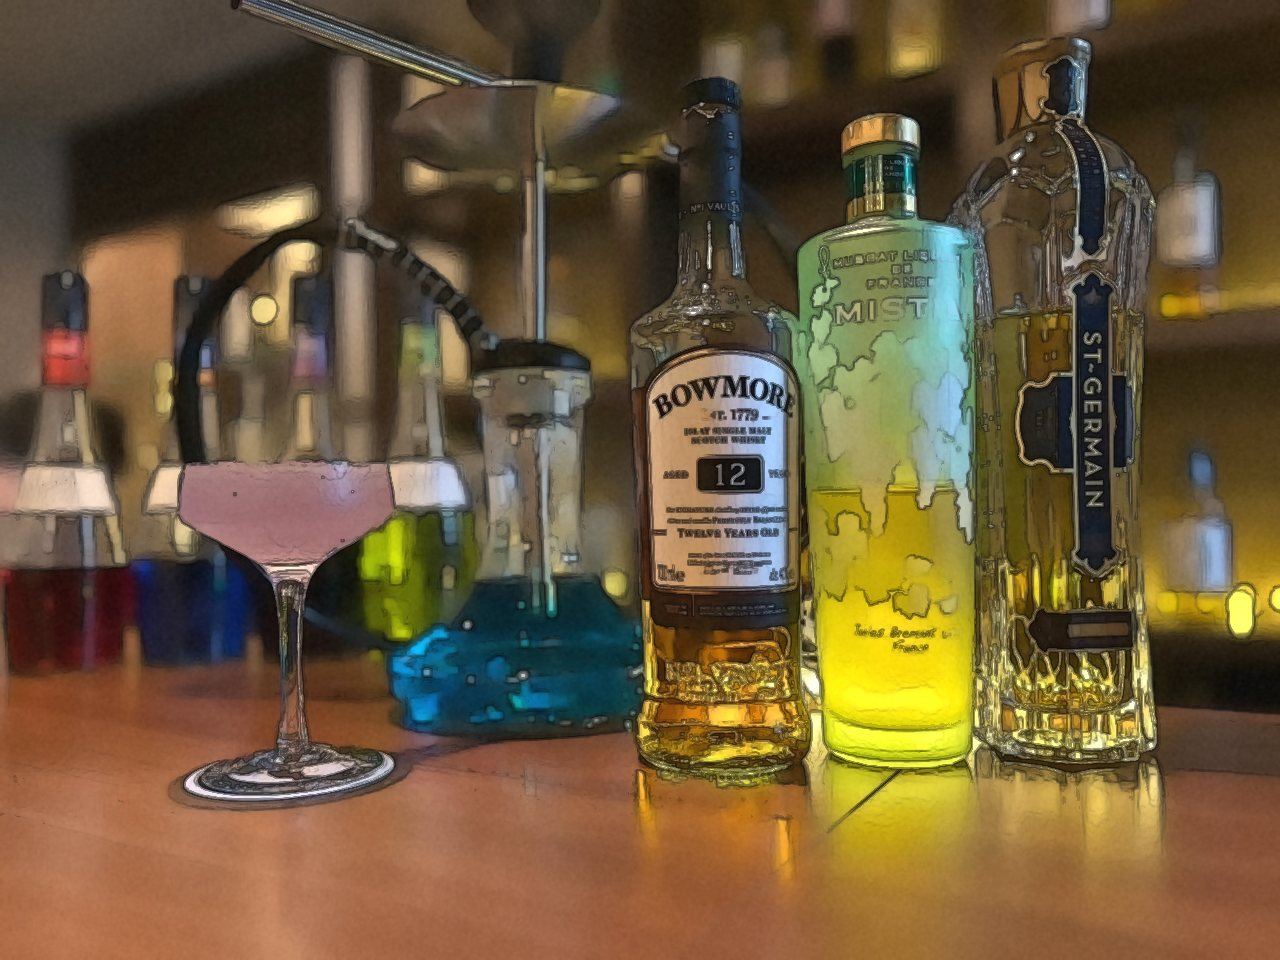
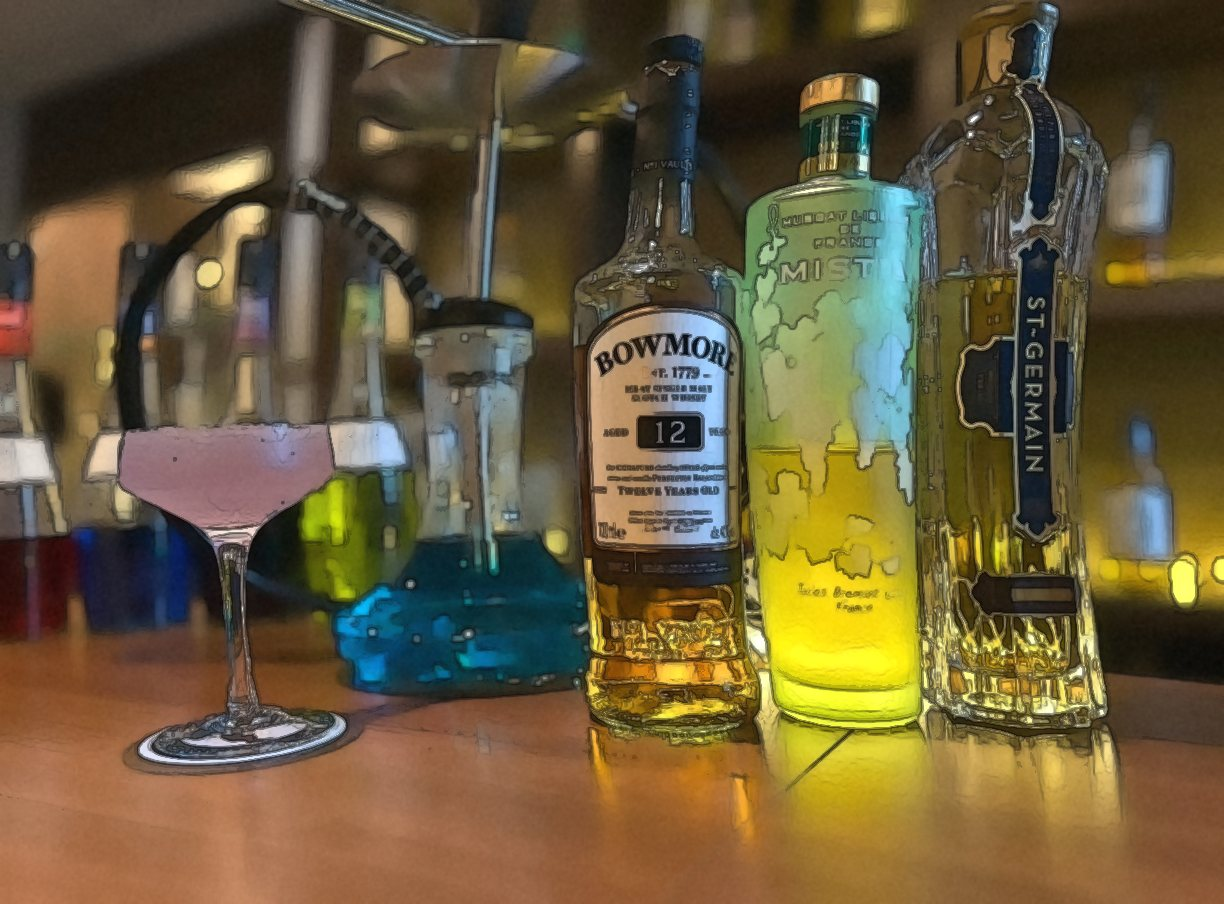
比較表と料金表記を更新、店内写真の色・配置を変更
Claude-Session: https://claude.ai/code/session_01YReYCQNiBFrJTdhhvK3aMu

diff --git a/index.html b/index.html
@@ -4,7 +4,7 @@
 <meta charset="utf-8">
 <meta name="viewport" content="width=device-width, initial-scale=1">
 <title>すすきのテナントシェア｜初期費用0円・月16万円〜でBARを間借り営業</title>
-<meta name="description" content="すすきの駅徒歩2分のBARを、時間帯で分けて貸し出すテナントシェア。初期費用0円、月16万円〜（家賃・管理費・光熱費・設備利用料込み）、3ヶ月ごとの更新。自分の店を小さく始めたい方へ。">
+<meta name="description" content="すすきの駅徒歩2分のBARを、時間帯で分けて貸し出すテナントシェア。初期費用0円、月16万円〜（家賃・管理費・光熱費・設備利用料込み、本来かかる金額の半分以下です）、3ヶ月ごとの更新。自分の店を小さく始めたい方へ。">
 <link rel="canonical" href="https://tenantshare.jp/">
 <meta property="og:type" content="website">
 <meta property="og:title" content="すすきのテナントシェア｜初期費用0円でBARを間借り営業">
@@ -16,12 +16,12 @@
 <link rel="preconnect" href="https://fonts.gstatic.com" crossorigin>
 <link href="https://fonts.googleapis.com/css2?family=Shippori+Mincho+B1:wght@600;800&family=Zen+Kaku+Gothic+New:wght@400;700&display=swap" rel="stylesheet">
 <script type="application/ld+json">
-{"@context":"https://schema.org","@type":"Service","name":"すすきのテナントシェア","serviceType":"飲食店の間借り営業（テナントシェア）","areaServed":"札幌市中央区すすきの","provider":{"@type":"Organization","name":"株式会社FINLAND","url":"https://finlandinc.jp/"},"offers":{"@type":"Offer","priceCurrency":"JPY","price":"160000","description":"月額16万円〜（家賃・管理費・光熱費・設備利用料込み）、初期費用0円、3ヶ月ごとの更新"}}
+{"@context":"https://schema.org","@type":"Service","name":"すすきのテナントシェア","serviceType":"飲食店の間借り営業（テナントシェア）","areaServed":"札幌市中央区すすきの","provider":{"@type":"Organization","name":"株式会社FINLAND","url":"https://finlandinc.jp/"},"offers":{"@type":"Offer","priceCurrency":"JPY","price":"160000","description":"月額16万円〜（家賃・管理費・光熱費・設備利用料込み、本来かかる金額の半分以下です）、初期費用0円、3ヶ月ごとの更新"}}
 </script>
 <script type="application/ld+json">
 {"@context":"https://schema.org","@type":"FAQPage","mainEntity":[
 {"@type":"Question","name":"初期費用はかかりますか？","acceptedAnswer":{"@type":"Answer","text":"かかりません。保証金・内装工事・設備の購入も不要です。"}},
-{"@type":"Question","name":"月額料金には何が含まれますか？","acceptedAnswer":{"@type":"Answer","text":"家賃・管理費・光熱費・設備利用料がすべて含まれて、月16万円〜です。"}},
+{"@type":"Question","name":"月額料金には何が含まれますか？","acceptedAnswer":{"@type":"Answer","text":"家賃・管理費・光熱費・設備利用料がすべて含まれて、月16万円〜です。本来かかる金額の半分以下です。"}},
 {"@type":"Question","name":"資格は必要ですか？","acceptedAnswer":{"@type":"Answer","text":"業務委託契約での営業となるため、ご自身で資格を取る必要はありません。"}},
 {"@type":"Question","name":"契約期間はどのくらいですか？","acceptedAnswer":{"@type":"Answer","text":"3ヶ月ごとの更新です。"}},
 {"@type":"Question","name":"どの時間帯で借りられますか？","acceptedAnswer":{"@type":"Answer","text":"9:00〜19:00、19:00〜翌1:00、翌1:00〜9:00の3つの時間帯から選べ、1ヶ月毎日使えます。"}}
@@ -179,7 +179,7 @@ footer a{color:var(--cream)}
     <p class="lead">設備のそろったBARを、時間帯ごとに借りられるテナントシェア。物件探しも内装工事もなしで、来月から自分の店を開けます。</p>
     <ul class="facts">
       <li><b>0円</b><span>初期費用</span></li>
-      <li><b>月16万円〜</b><span>家賃・光熱費など込み</span></li>
+      <li><b>月16万円〜</b><span>家賃・光熱費など込み。本来かかる金額の半分以下です</span></li>
       <li><b>3ヶ月</b><span>ごとの更新</span></li>
       <li><b>不要</b><span>資格</span></li>
     </ul>
@@ -210,11 +210,11 @@ footer a{color:var(--cream)}
     <table class="cmp">
       <thead><tr><th scope="col"></th><th scope="col">物件を借りて開業</th><th scope="col" class="us">テナントシェア</th></tr></thead>
       <tbody>
-        <tr><th scope="row">保証金・礼金</th><td>必要（家賃の数ヶ月分が一般的）</td><td class="us">0円</td></tr>
+        <tr><th scope="row">保証金・礼金</th><td>必要（数百万円〜かかることも）</td><td class="us">0円</td></tr>
         <tr><th scope="row">内装工事・設備</th><td>自分で用意</td><td class="us">そろっている（そのまま使える）</td></tr>
-        <tr><th scope="row">毎月の固定費</th><td>家賃・管理費・光熱費を別々に支払い</td><td class="us">月16万円〜にすべて込み</td></tr>
+        <tr><th scope="row">毎月の固定費</th><td>家賃・管理費・光熱費を別々に支払い</td><td class="us">月16万円〜にすべて込み<br><small style="font-weight:400;color:var(--amber)">本来かかる金額の半分以下です</small></td></tr>
         <tr><th scope="row">やめるとき</th><td>原状回復の費用がかかることも</td><td class="us">3ヶ月ごとの更新で判断できる</td></tr>
-        <tr><th scope="row">場所</th><td>空き物件しだい</td><td class="us">すすきの駅から徒歩2分</td></tr>
+        <tr><th scope="row">場所</th><td>空き物件しだい。人気のテナント情報は一般には出回らず、たどり着くのが難しい</td><td class="us">すすきの駅から徒歩2分</td></tr>
       </tbody>
     </table>
     </div>
@@ -226,7 +226,7 @@ footer a{color:var(--cream)}
     <div>
       <h2 class="sec-title" id="price-title">料金</h2>
       <p class="price-big">16万円〜<small>／月</small></p>
-      <p style="margin:0">家賃・管理費・光熱費・設備利用料がすべて込みです。</p>
+      <p style="margin:0">家賃・管理費・光熱費・設備利用料がすべて込みで、本来かかる金額の半分以下です。</p>
       <ul>
         <li>初期費用：0円</li>
         <li>契約：3ヶ月ごとの更新（業務委託契約）</li>
@@ -257,10 +257,11 @@ footer a{color:var(--cream)}
     <h2 class="sec-title" id="eq-title">お店と設備</h2>
     <p class="sec-lead">18席のBARを、そのままあなたの店として使えます。プロジェクターやカラオケもあるので、イベントや貸切にも対応できます。</p>
     <div class="gallery">
-      <figure><img src="img/floor.jpg" alt="カウンター6席とボックス席のある店内" width="1477" height="1108" loading="lazy"><figcaption>店内全体（カウンター6席）</figcaption></figure>
-      <figure><img src="img/booth.jpg" alt="プロジェクターのあるボックス席" width="1108" height="1477" loading="lazy" style="aspect-ratio:4/3;object-position:center 60%"><figcaption>6名のボックス席（2つ）</figcaption></figure>
-      <figure><img src="img/shelf.jpg" alt="ライトアップされたバックバー" width="1280" height="721" loading="lazy"><figcaption>バックバー</figcaption></figure>
+      <figure><img src="img/floor.jpg" alt="カウンター6席とボックス席のある店内" width="1411" height="1042" loading="lazy"><figcaption>店内全体（カウンター6席）</figcaption></figure>
+      <figure><img src="img/booth.jpg" alt="プロジェクターのあるボックス席" width="1042" height="1411" loading="lazy" style="aspect-ratio:4/3;object-position:center 60%"><figcaption>6名のボックス席（2つ）</figcaption></figure>
+      <figure><img src="img/shelf.jpg" alt="ライトアップされたバックバー" width="1238" height="679" loading="lazy"><figcaption>バックバー</figcaption></figure>
     </div>
+    <p class="note" style="margin:-32px 0 32px">※写真は店内のイメージです。実際の店内は見学でご確認いただけます。</p>
     <dl class="equip">
       <div><dt>席数</dt><dd>18席（6名ボックス席×2、カウンター6席）</dd></div>
       <div><dt>調理</dt><dd>2口ガスコンロ、冷蔵庫、製氷機（小）</dd></div>
@@ -290,7 +291,7 @@ footer a{color:var(--cream)}
     <h2 class="sec-title" id="faq-title">よくある質問</h2>
     <div class="faq">
       <details><summary>初期費用はかかりますか？</summary><p>かかりません。保証金・内装工事・設備の購入も不要です。</p></details>
-      <details><summary>月額料金には何が含まれますか？</summary><p>家賃・管理費・光熱費・設備利用料がすべて含まれて、月16万円〜です。時間帯によって料金が変わります。</p></details>
+      <details><summary>月額料金には何が含まれますか？</summary><p>家賃・管理費・光熱費・設備利用料がすべて含まれて、月16万円〜です。本来かかる金額の半分以下です。時間帯によって料金が変わります。</p></details>
       <details><summary>資格は必要ですか？</summary><p>業務委託契約での営業となるため、ご自身で資格を取る必要はありません。</p></details>
       <details><summary>契約期間はどのくらいですか？</summary><p>3ヶ月ごとの更新です。続けるかどうかを3ヶ月ごとに判断できます。</p></details>
       <details><summary>どの時間帯で借りられますか？</summary><p>9:00〜19:00、19:00〜翌1:00、翌1:00〜9:00の3つから選べます。選んだ時間帯は1ヶ月毎日使えます。</p></details>
@@ -309,7 +310,7 @@ footer a{color:var(--cream)}
         <div><dt>運営</dt><dd><a href="https://finlandinc.jp/">株式会社FINLAND</a></dd></div>
       </dl>
     </div>
-    <img src="img/drinks.jpg" alt="カウンターに並ぶカクテルとボトル" width="1280" height="960" loading="lazy" style="border-radius:4px">
+    <img src="img/drinks.jpg" alt="カウンターに並ぶカクテルとボトル" width="1224" height="904" loading="lazy" style="border-radius:4px">
   </div>
 </section>
 
